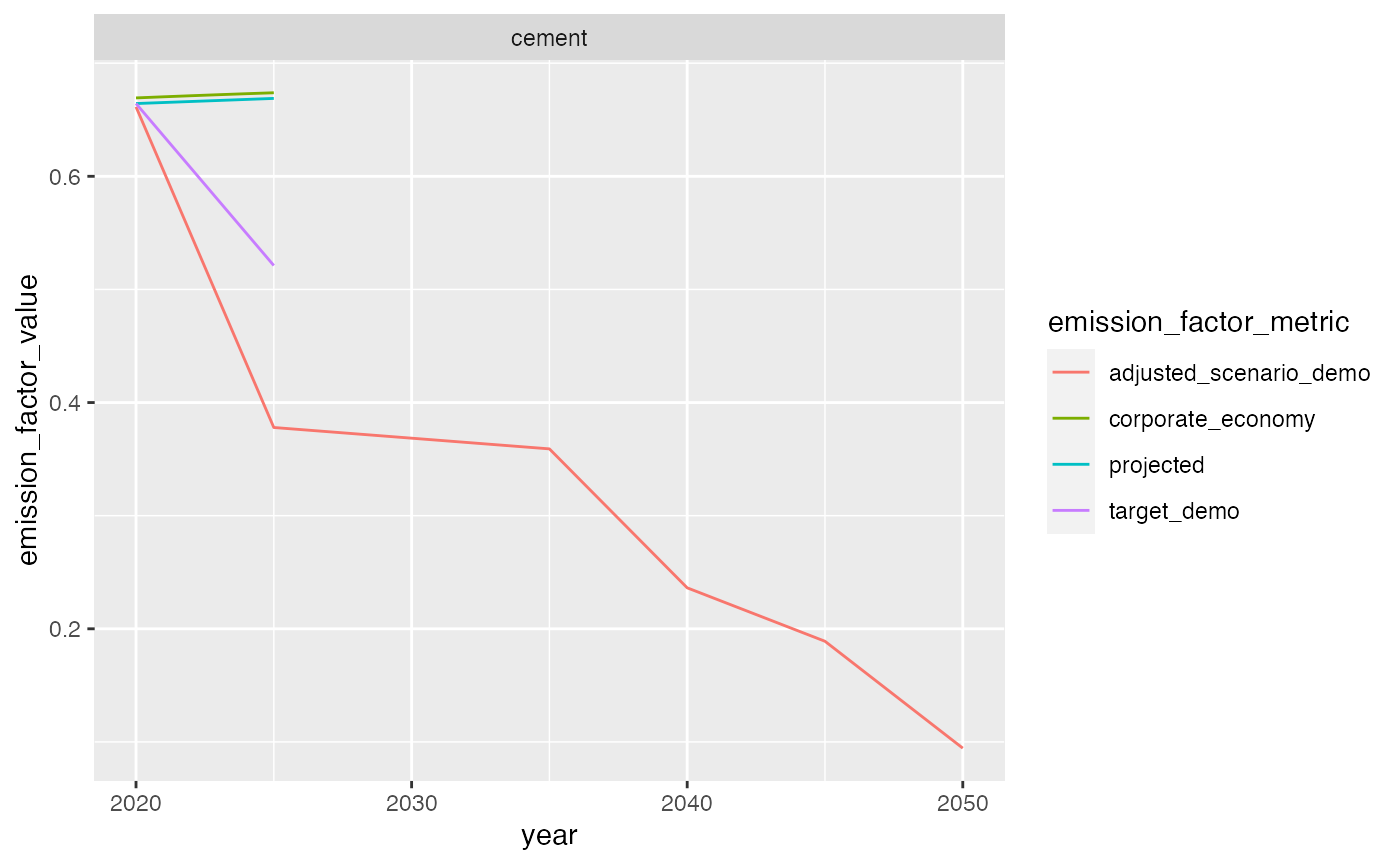
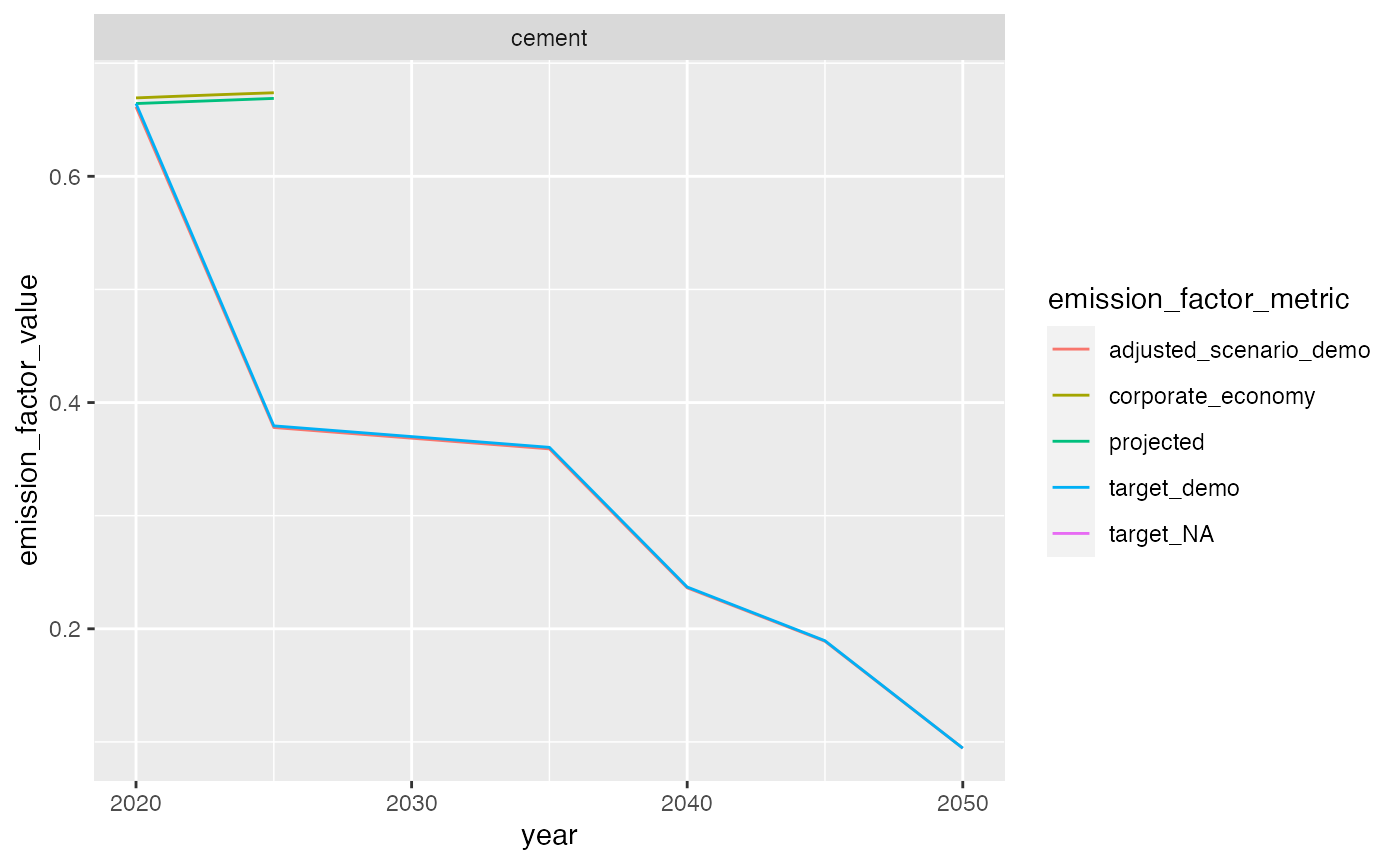
Built site for r2dii.analysis: 0.1.1.9000@16420b8

diff --git a/dev/reference/target_sda.html b/dev/reference/target_sda.html
@@ -254,7 +254,7 @@ calculated portfolio target emissions factors (see column
 <span class='co'># You may need to clean your data</span>
 <span class='fu'><a href='https://rdrr.io/r/base/NA.html'>anyNA</a></span><span class='op'>(</span><span class='va'>ald</span><span class='op'>$</span><span class='va'>emission_factor</span><span class='op'>)</span>
 </div><div class='output co'>#&gt; [1] TRUE</div><div class='input'><span class='kw'><a href='https://rdrr.io/r/base/try.html'>try</a></span><span class='op'>(</span><span class='fu'>target_sda</span><span class='op'>(</span><span class='va'>matched</span>, <span class='va'>ald</span>, co2_intensity_scenario <span class='op'>=</span> <span class='va'>co2_scenario</span><span class='op'>)</span><span class='op'>)</span>
-</div><div class='output co'>#&gt; <span class='warning'>Warning: Removing ald rows where `emission_factor` is NA</span></div><div class='output co'>#&gt; <span style='color: #555555;'># A tibble: 208 x 4</span><span>
+</div><div class='output co'>#&gt; <span class='warning'>Warning: Removing ald rows where `emission_factor` is NA</span></div><div class='output co'>#&gt; <span style='color: #555555;'># A tibble: 508 x 4</span><span>
 #&gt;    sector      year emission_factor_metric emission_factor_value
 #&gt;    </span><span style='color: #555555;font-style: italic;'>&lt;chr&gt;</span><span>      </span><span style='color: #555555;font-style: italic;'>&lt;dbl&gt;</span><span> </span><span style='color: #555555;font-style: italic;'>&lt;chr&gt;</span><span>                                  </span><span style='color: #555555;font-style: italic;'>&lt;dbl&gt;</span><span>
 #&gt; </span><span style='color: #555555;'> 1</span><span> automotive  </span><span style='text-decoration: underline;'>2</span><span>002 projected                              0.228
@@ -267,7 +267,7 @@ calculated portfolio target emissions factors (see column
 #&gt; </span><span style='color: #555555;'> 8</span><span> automotive  </span><span style='text-decoration: underline;'>2</span><span>009 projected                              0.214
 #&gt; </span><span style='color: #555555;'> 9</span><span> automotive  </span><span style='text-decoration: underline;'>2</span><span>010 projected                              0.212
 #&gt; </span><span style='color: #555555;'>10</span><span> automotive  </span><span style='text-decoration: underline;'>2</span><span>011 projected                              0.210
-#&gt; </span><span style='color: #555555;'># … with 198 more rows</span><span></div><div class='input'>
+#&gt; </span><span style='color: #555555;'># … with 498 more rows</span><span></div><div class='input'>
 <span class='va'>ald2</span> <span class='op'>&lt;-</span> <span class='fu'><a href='https://rdrr.io/r/base/subset.html'>subset</a></span><span class='op'>(</span><span class='va'>ald</span>, <span class='op'>!</span><span class='fu'><a href='https://rdrr.io/r/base/NA.html'>is.na</a></span><span class='op'>(</span><span class='va'>emission_factor</span><span class='op'>)</span><span class='op'>)</span>
 <span class='fu'><a href='https://rdrr.io/r/base/NA.html'>anyNA</a></span><span class='op'>(</span><span class='va'>ald2</span><span class='op'>$</span><span class='va'>emission_factor</span><span class='op'>)</span>
 </div><div class='output co'>#&gt; [1] FALSE</div><div class='input'>
@@ -277,7 +277,7 @@ calculated portfolio target emissions factors (see column
 <span class='co'># scenario pathway emissions factors, and the portfolio's target emissions</span>
 <span class='co'># factors.</span>
 <span class='va'>out</span>
-</div><div class='output co'>#&gt; </span><span style='color: #555555;'># A tibble: 208 x 4</span><span>
+</div><div class='output co'>#&gt; </span><span style='color: #555555;'># A tibble: 508 x 4</span><span>
 #&gt;    sector      year emission_factor_metric emission_factor_value
 #&gt;    </span><span style='color: #555555;font-style: italic;'>&lt;chr&gt;</span><span>      </span><span style='color: #555555;font-style: italic;'>&lt;dbl&gt;</span><span> </span><span style='color: #555555;font-style: italic;'>&lt;chr&gt;</span><span>                                  </span><span style='color: #555555;font-style: italic;'>&lt;dbl&gt;</span><span>
 #&gt; </span><span style='color: #555555;'> 1</span><span> automotive  </span><span style='text-decoration: underline;'>2</span><span>002 projected                              0.228
@@ -290,11 +290,11 @@ calculated portfolio target emissions factors (see column
 #&gt; </span><span style='color: #555555;'> 8</span><span> automotive  </span><span style='text-decoration: underline;'>2</span><span>009 projected                              0.214
 #&gt; </span><span style='color: #555555;'> 9</span><span> automotive  </span><span style='text-decoration: underline;'>2</span><span>010 projected                              0.212
 #&gt; </span><span style='color: #555555;'>10</span><span> automotive  </span><span style='text-decoration: underline;'>2</span><span>011 projected                              0.210
-#&gt; </span><span style='color: #555555;'># … with 198 more rows</span><span></div><div class='input'>
+#&gt; </span><span style='color: #555555;'># … with 498 more rows</span><span></div><div class='input'>
 <span class='co'># Split-view by metric</span>
 <span class='fu'><a href='https://rdrr.io/r/base/split.html'>split</a></span><span class='op'>(</span><span class='va'>out</span>, <span class='va'>out</span><span class='op'>$</span><span class='va'>emission_factor_metric</span><span class='op'>)</span>
 </div><div class='output co'>#&gt; $adjusted_scenario_demo
-#&gt; </span><span style='color: #555555;'># A tibble: 22 x 4</span><span>
+#&gt; </span><span style='color: #555555;'># A tibble: 62 x 4</span><span>
 #&gt;    sector  year emission_factor_metric emission_factor_value
 #&gt;    </span><span style='color: #555555;font-style: italic;'>&lt;chr&gt;</span><span>  </span><span style='color: #555555;font-style: italic;'>&lt;dbl&gt;</span><span> </span><span style='color: #555555;font-style: italic;'>&lt;chr&gt;</span><span>                                  </span><span style='color: #555555;font-style: italic;'>&lt;dbl&gt;</span><span>
 #&gt; </span><span style='color: #555555;'> 1</span><span> cement  </span><span style='text-decoration: underline;'>2</span><span>020 adjusted_scenario_demo                 0.661
@@ -307,7 +307,7 @@ calculated portfolio target emissions factors (see column
 #&gt; </span><span style='color: #555555;'> 8</span><span> steel   </span><span style='text-decoration: underline;'>2</span><span>023 adjusted_scenario_demo                 0.222
 #&gt; </span><span style='color: #555555;'> 9</span><span> cement  </span><span style='text-decoration: underline;'>2</span><span>024 adjusted_scenario_demo                 0.435
 #&gt; </span><span style='color: #555555;'>10</span><span> steel   </span><span style='text-decoration: underline;'>2</span><span>024 adjusted_scenario_demo                 0.209
-#&gt; </span><span style='color: #555555;'># … with 12 more rows</span><span>
+#&gt; </span><span style='color: #555555;'># … with 52 more rows</span><span>
 #&gt; 
 #&gt; $corporate_economy
 #&gt; </span><span style='color: #555555;'># A tibble: 103 x 4</span><span>
@@ -342,15 +342,36 @@ calculated portfolio target emissions factors (see column
 #&gt; </span><span style='color: #555555;'># … with 67 more rows</span><span>
 #&gt; 
 #&gt; $target_demo
-#&gt; </span><span style='color: #555555;'># A tibble: 6 x 4</span><span>
-#&gt;   sector  year emission_factor_metric emission_factor_value
-#&gt;   </span><span style='color: #555555;font-style: italic;'>&lt;chr&gt;</span><span>  </span><span style='color: #555555;font-style: italic;'>&lt;dbl&gt;</span><span> </span><span style='color: #555555;font-style: italic;'>&lt;chr&gt;</span><span>                                  </span><span style='color: #555555;font-style: italic;'>&lt;dbl&gt;</span><span>
-#&gt; </span><span style='color: #555555;'>1</span><span> cement  </span><span style='text-decoration: underline;'>2</span><span>020 target_demo                            0.664
-#&gt; </span><span style='color: #555555;'>2</span><span> cement  </span><span style='text-decoration: underline;'>2</span><span>021 target_demo                            0.636
-#&gt; </span><span style='color: #555555;'>3</span><span> cement  </span><span style='text-decoration: underline;'>2</span><span>022 target_demo                            0.607
-#&gt; </span><span style='color: #555555;'>4</span><span> cement  </span><span style='text-decoration: underline;'>2</span><span>023 target_demo                            0.578
-#&gt; </span><span style='color: #555555;'>5</span><span> cement  </span><span style='text-decoration: underline;'>2</span><span>024 target_demo                            0.550
-#&gt; </span><span style='color: #555555;'>6</span><span> cement  </span><span style='text-decoration: underline;'>2</span><span>025 target_demo                            0.521
+#&gt; </span><span style='color: #555555;'># A tibble: 133 x 4</span><span>
+#&gt;    sector      year emission_factor_metric emission_factor_value
+#&gt;    </span><span style='color: #555555;font-style: italic;'>&lt;chr&gt;</span><span>      </span><span style='color: #555555;font-style: italic;'>&lt;dbl&gt;</span><span> </span><span style='color: #555555;font-style: italic;'>&lt;chr&gt;</span><span>                                  </span><span style='color: #555555;font-style: italic;'>&lt;dbl&gt;</span><span>
+#&gt; </span><span style='color: #555555;'> 1</span><span> automotive  </span><span style='text-decoration: underline;'>2</span><span>002 target_demo                               </span><span style='color: #BB0000;'>NA</span><span>
+#&gt; </span><span style='color: #555555;'> 2</span><span> automotive  </span><span style='text-decoration: underline;'>2</span><span>003 target_demo                               </span><span style='color: #BB0000;'>NA</span><span>
+#&gt; </span><span style='color: #555555;'> 3</span><span> automotive  </span><span style='text-decoration: underline;'>2</span><span>004 target_demo                               </span><span style='color: #BB0000;'>NA</span><span>
+#&gt; </span><span style='color: #555555;'> 4</span><span> automotive  </span><span style='text-decoration: underline;'>2</span><span>005 target_demo                               </span><span style='color: #BB0000;'>NA</span><span>
+#&gt; </span><span style='color: #555555;'> 5</span><span> automotive  </span><span style='text-decoration: underline;'>2</span><span>006 target_demo                               </span><span style='color: #BB0000;'>NA</span><span>
+#&gt; </span><span style='color: #555555;'> 6</span><span> automotive  </span><span style='text-decoration: underline;'>2</span><span>007 target_demo                               </span><span style='color: #BB0000;'>NA</span><span>
+#&gt; </span><span style='color: #555555;'> 7</span><span> automotive  </span><span style='text-decoration: underline;'>2</span><span>008 target_demo                               </span><span style='color: #BB0000;'>NA</span><span>
+#&gt; </span><span style='color: #555555;'> 8</span><span> automotive  </span><span style='text-decoration: underline;'>2</span><span>009 target_demo                               </span><span style='color: #BB0000;'>NA</span><span>
+#&gt; </span><span style='color: #555555;'> 9</span><span> automotive  </span><span style='text-decoration: underline;'>2</span><span>010 target_demo                               </span><span style='color: #BB0000;'>NA</span><span>
+#&gt; </span><span style='color: #555555;'>10</span><span> automotive  </span><span style='text-decoration: underline;'>2</span><span>011 target_demo                               </span><span style='color: #BB0000;'>NA</span><span>
+#&gt; </span><span style='color: #555555;'># … with 123 more rows</span><span>
+#&gt; 
+#&gt; $target_NA
+#&gt; </span><span style='color: #555555;'># A tibble: 133 x 4</span><span>
+#&gt;    sector      year emission_factor_metric emission_factor_value
+#&gt;    </span><span style='color: #555555;font-style: italic;'>&lt;chr&gt;</span><span>      </span><span style='color: #555555;font-style: italic;'>&lt;dbl&gt;</span><span> </span><span style='color: #555555;font-style: italic;'>&lt;chr&gt;</span><span>                                  </span><span style='color: #555555;font-style: italic;'>&lt;dbl&gt;</span><span>
+#&gt; </span><span style='color: #555555;'> 1</span><span> automotive  </span><span style='text-decoration: underline;'>2</span><span>002 target_NA                                 </span><span style='color: #BB0000;'>NA</span><span>
+#&gt; </span><span style='color: #555555;'> 2</span><span> automotive  </span><span style='text-decoration: underline;'>2</span><span>003 target_NA                                 </span><span style='color: #BB0000;'>NA</span><span>
+#&gt; </span><span style='color: #555555;'> 3</span><span> automotive  </span><span style='text-decoration: underline;'>2</span><span>004 target_NA                                 </span><span style='color: #BB0000;'>NA</span><span>
+#&gt; </span><span style='color: #555555;'> 4</span><span> automotive  </span><span style='text-decoration: underline;'>2</span><span>005 target_NA                                 </span><span style='color: #BB0000;'>NA</span><span>
+#&gt; </span><span style='color: #555555;'> 5</span><span> automotive  </span><span style='text-decoration: underline;'>2</span><span>006 target_NA                                 </span><span style='color: #BB0000;'>NA</span><span>
+#&gt; </span><span style='color: #555555;'> 6</span><span> automotive  </span><span style='text-decoration: underline;'>2</span><span>007 target_NA                                 </span><span style='color: #BB0000;'>NA</span><span>
+#&gt; </span><span style='color: #555555;'> 7</span><span> automotive  </span><span style='text-decoration: underline;'>2</span><span>008 target_NA                                 </span><span style='color: #BB0000;'>NA</span><span>
+#&gt; </span><span style='color: #555555;'> 8</span><span> automotive  </span><span style='text-decoration: underline;'>2</span><span>009 target_NA                                 </span><span style='color: #BB0000;'>NA</span><span>
+#&gt; </span><span style='color: #555555;'> 9</span><span> automotive  </span><span style='text-decoration: underline;'>2</span><span>010 target_NA                                 </span><span style='color: #BB0000;'>NA</span><span>
+#&gt; </span><span style='color: #555555;'>10</span><span> automotive  </span><span style='text-decoration: underline;'>2</span><span>011 target_NA                                 </span><span style='color: #BB0000;'>NA</span><span>
+#&gt; </span><span style='color: #555555;'># … with 123 more rows</span><span>
 #&gt; </div><div class='input'>
 <span class='co'># Calculate company-level targets</span>
 <span class='va'>out</span> <span class='op'>&lt;-</span> <span class='fu'>target_sda</span><span class='op'>(</span>

diff --git a/dev/articles/r2dii-analysis.html b/dev/articles/r2dii-analysis.html
@@ -270,7 +270,7 @@
 <span class="co">#&gt; Warning: Removing ald rows where `emission_factor` is NA</span>
 
 <span class="va">sda_targets</span>
-<span class="co">#&gt; # A tibble: 29 x 4</span>
+<span class="co">#&gt; # A tibble: 105 x 4</span>
 <span class="co">#&gt;    sector  year emission_factor_metric emission_factor_value</span>
 <span class="co">#&gt;    &lt;chr&gt;  &lt;dbl&gt; &lt;chr&gt;                                  &lt;dbl&gt;</span>
 <span class="co">#&gt;  1 cement  2020 projected                              0.664</span>
@@ -283,7 +283,7 @@
 <span class="co">#&gt;  8 cement  2021 corporate_economy                      0.670</span>
 <span class="co">#&gt;  9 cement  2022 corporate_economy                      0.671</span>
 <span class="co">#&gt; 10 cement  2023 corporate_economy                      0.672</span>
-<span class="co">#&gt; # … with 19 more rows</span></code></pre></div>
+<span class="co">#&gt; # … with 95 more rows</span></code></pre></div>
 </div>
 </div>
 <div id="visualization" class="section level2">
@@ -402,7 +402,8 @@
     color <span class="op">=</span> <span class="va">emission_factor_metric</span><span class="op">)</span>
 <span class="op">)</span> <span class="op">+</span>
   <span class="fu">geom_line</span><span class="op">(</span><span class="op">)</span> <span class="op">+</span>
-  <span class="fu">facet_wrap</span><span class="op">(</span><span class="op">~</span> <span class="va">sector</span><span class="op">)</span></code></pre></div>
+  <span class="fu">facet_wrap</span><span class="op">(</span><span class="op">~</span> <span class="va">sector</span><span class="op">)</span>
+<span class="co">#&gt; Warning: Removed 31 row(s) containing missing values (geom_path).</span></code></pre></div>
 <p><img src="r2dii-analysis_files/figure-html/sda%20plot-1.png" width="100%"></p>
 </div>
 </div>

diff --git a/dev/articles/target-sda.html b/dev/articles/target-sda.html
@@ -219,7 +219,7 @@
 
 <span class="va">matched</span> <span class="op">%&gt;%</span> <span class="fu"><a href="../reference/target_sda.html">target_sda</a></span><span class="op">(</span><span class="va">ald</span>, <span class="va">co2_intensity</span><span class="op">)</span>
 <span class="co">#&gt; Warning: Removing ald rows where `emission_factor` is NA</span>
-<span class="co">#&gt; # A tibble: 208 x 4</span>
+<span class="co">#&gt; # A tibble: 508 x 4</span>
 <span class="co">#&gt;    sector      year emission_factor_metric emission_factor_value</span>
 <span class="co">#&gt;    &lt;chr&gt;      &lt;dbl&gt; &lt;chr&gt;                                  &lt;dbl&gt;</span>
 <span class="co">#&gt;  1 automotive  2002 projected                              0.228</span>
@@ -232,7 +232,7 @@
 <span class="co">#&gt;  8 automotive  2009 projected                              0.214</span>
 <span class="co">#&gt;  9 automotive  2010 projected                              0.212</span>
 <span class="co">#&gt; 10 automotive  2011 projected                              0.210</span>
-<span class="co">#&gt; # … with 198 more rows</span></code></pre></div>
+<span class="co">#&gt; # … with 498 more rows</span></code></pre></div>
 </div>
   </div>
 

diff --git a/dev/news/index.html b/dev/news/index.html
@@ -169,6 +169,7 @@
 <a href="#r2diianalysis-development-version" class="anchor"></a>r2dii.analysis (development version)<small> Unreleased </small>
 </h1>
 <ul>
+<li><p><code><a href="../reference/target_sda.html">target_sda()</a></code> now interpolates input scenario file by year and correctly calculates target, regardless of the time-horizon of <code>ald</code> (<a href='https://github.com/2DegreesInvesting/r2dii.analysis/issues/234'>#234</a>).</p></li>
 <li><p><code><a href="../reference/target_market_share.html">target_market_share()</a></code> now outputs empty named tibble if no matching region definitions can be found (<a href='https://github.com/2DegreesInvesting/r2dii.analysis/issues/236'>#236</a>).</p></li>
 <li><p><code>target_market_share</code> now outputs all technologies present in <code>ald</code>, even if they are not present in <code>data</code> (<a href='https://github.com/2DegreesInvesting/r2dii.analysis/issues/235'>#235</a>).</p></li>
 <li><p>New internal data <code>loanbook_stable</code> and <code>region_isos_stable</code> make regression tests more stable (<a href='https://github.com/2DegreesInvesting/r2dii.analysis/issues/227'>#227</a>).</p></li>
